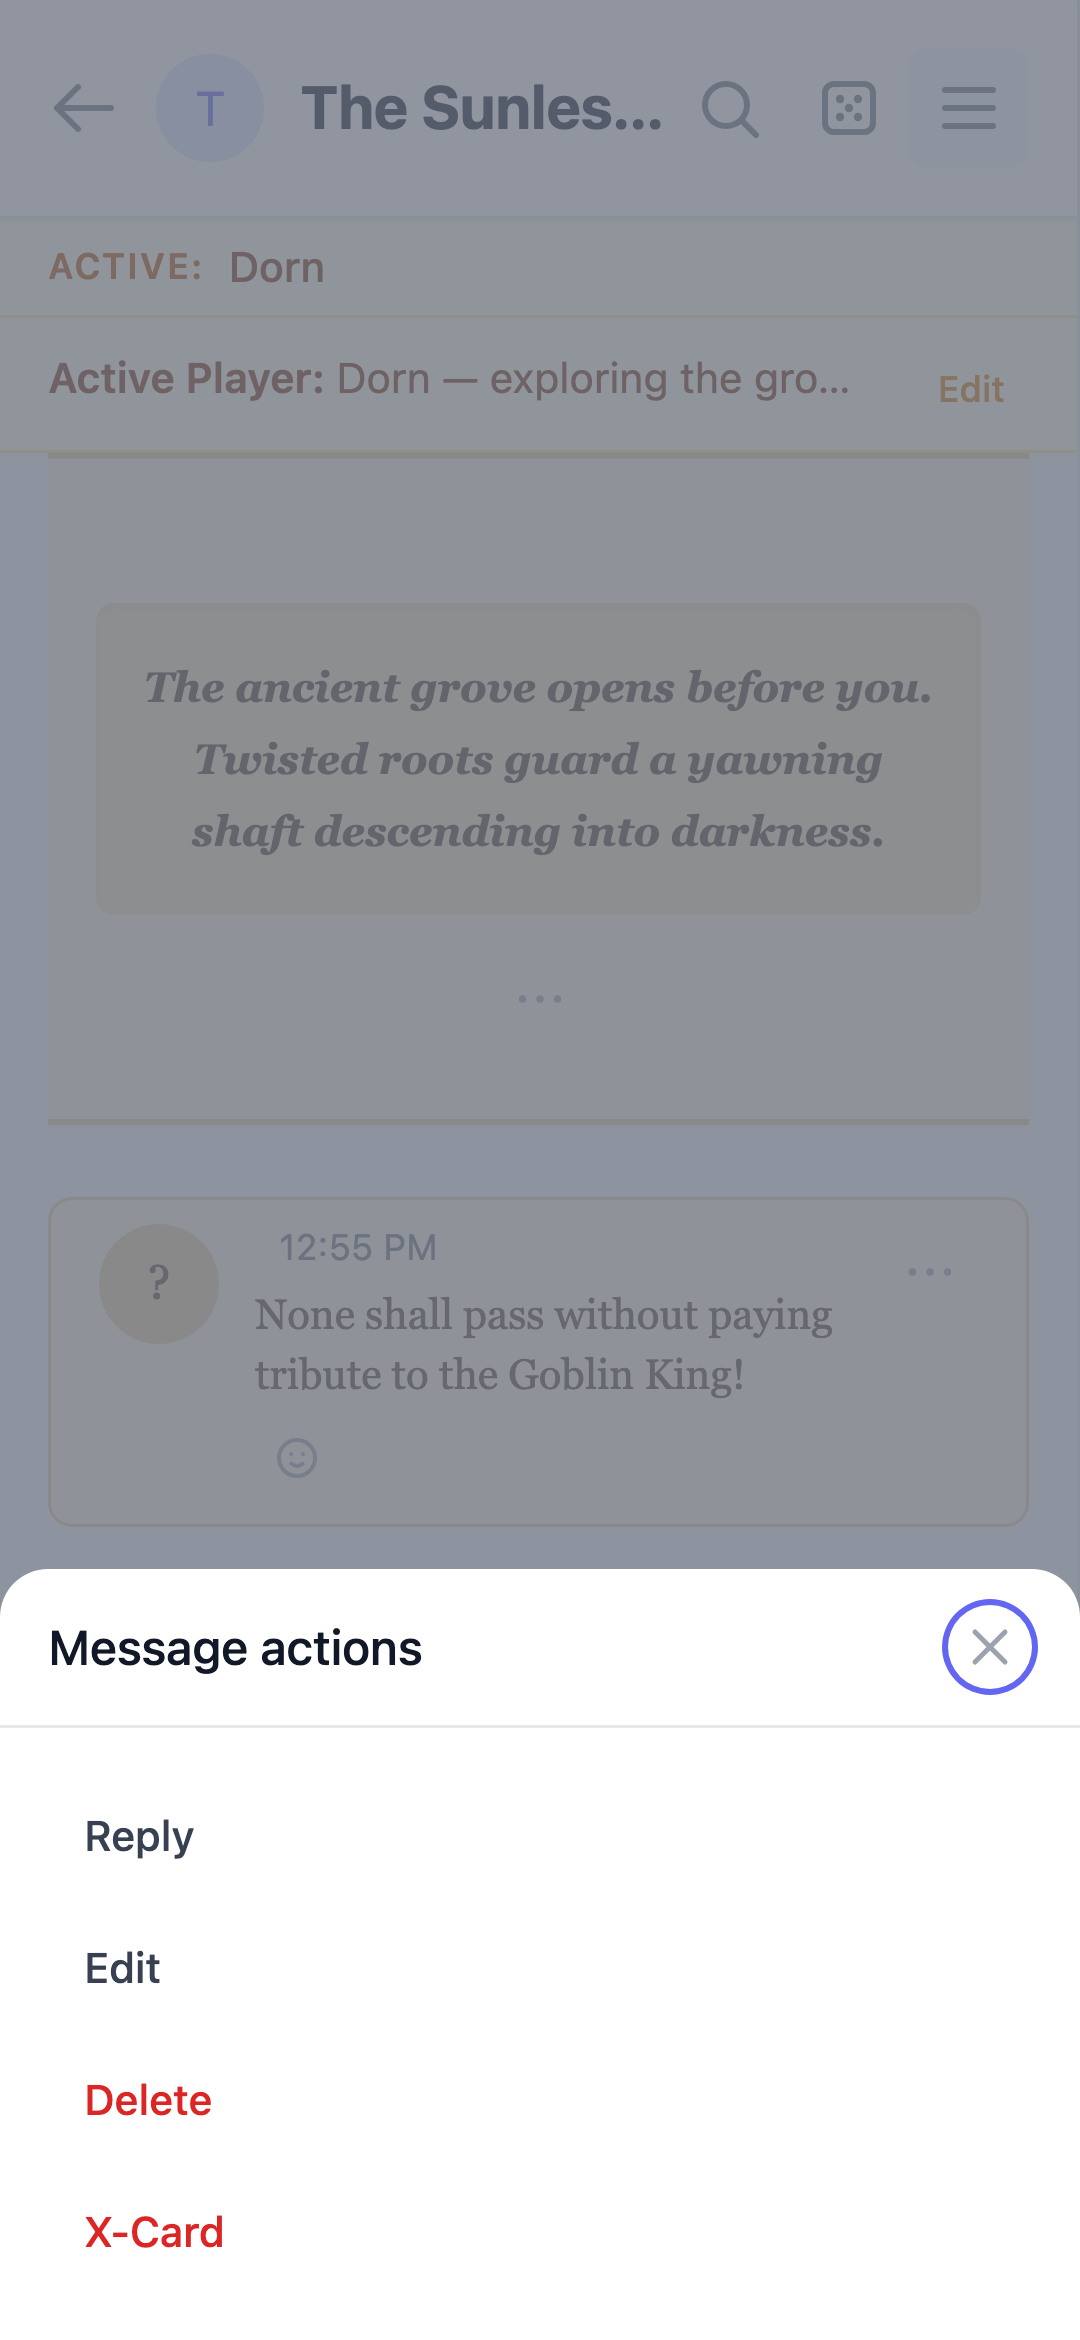
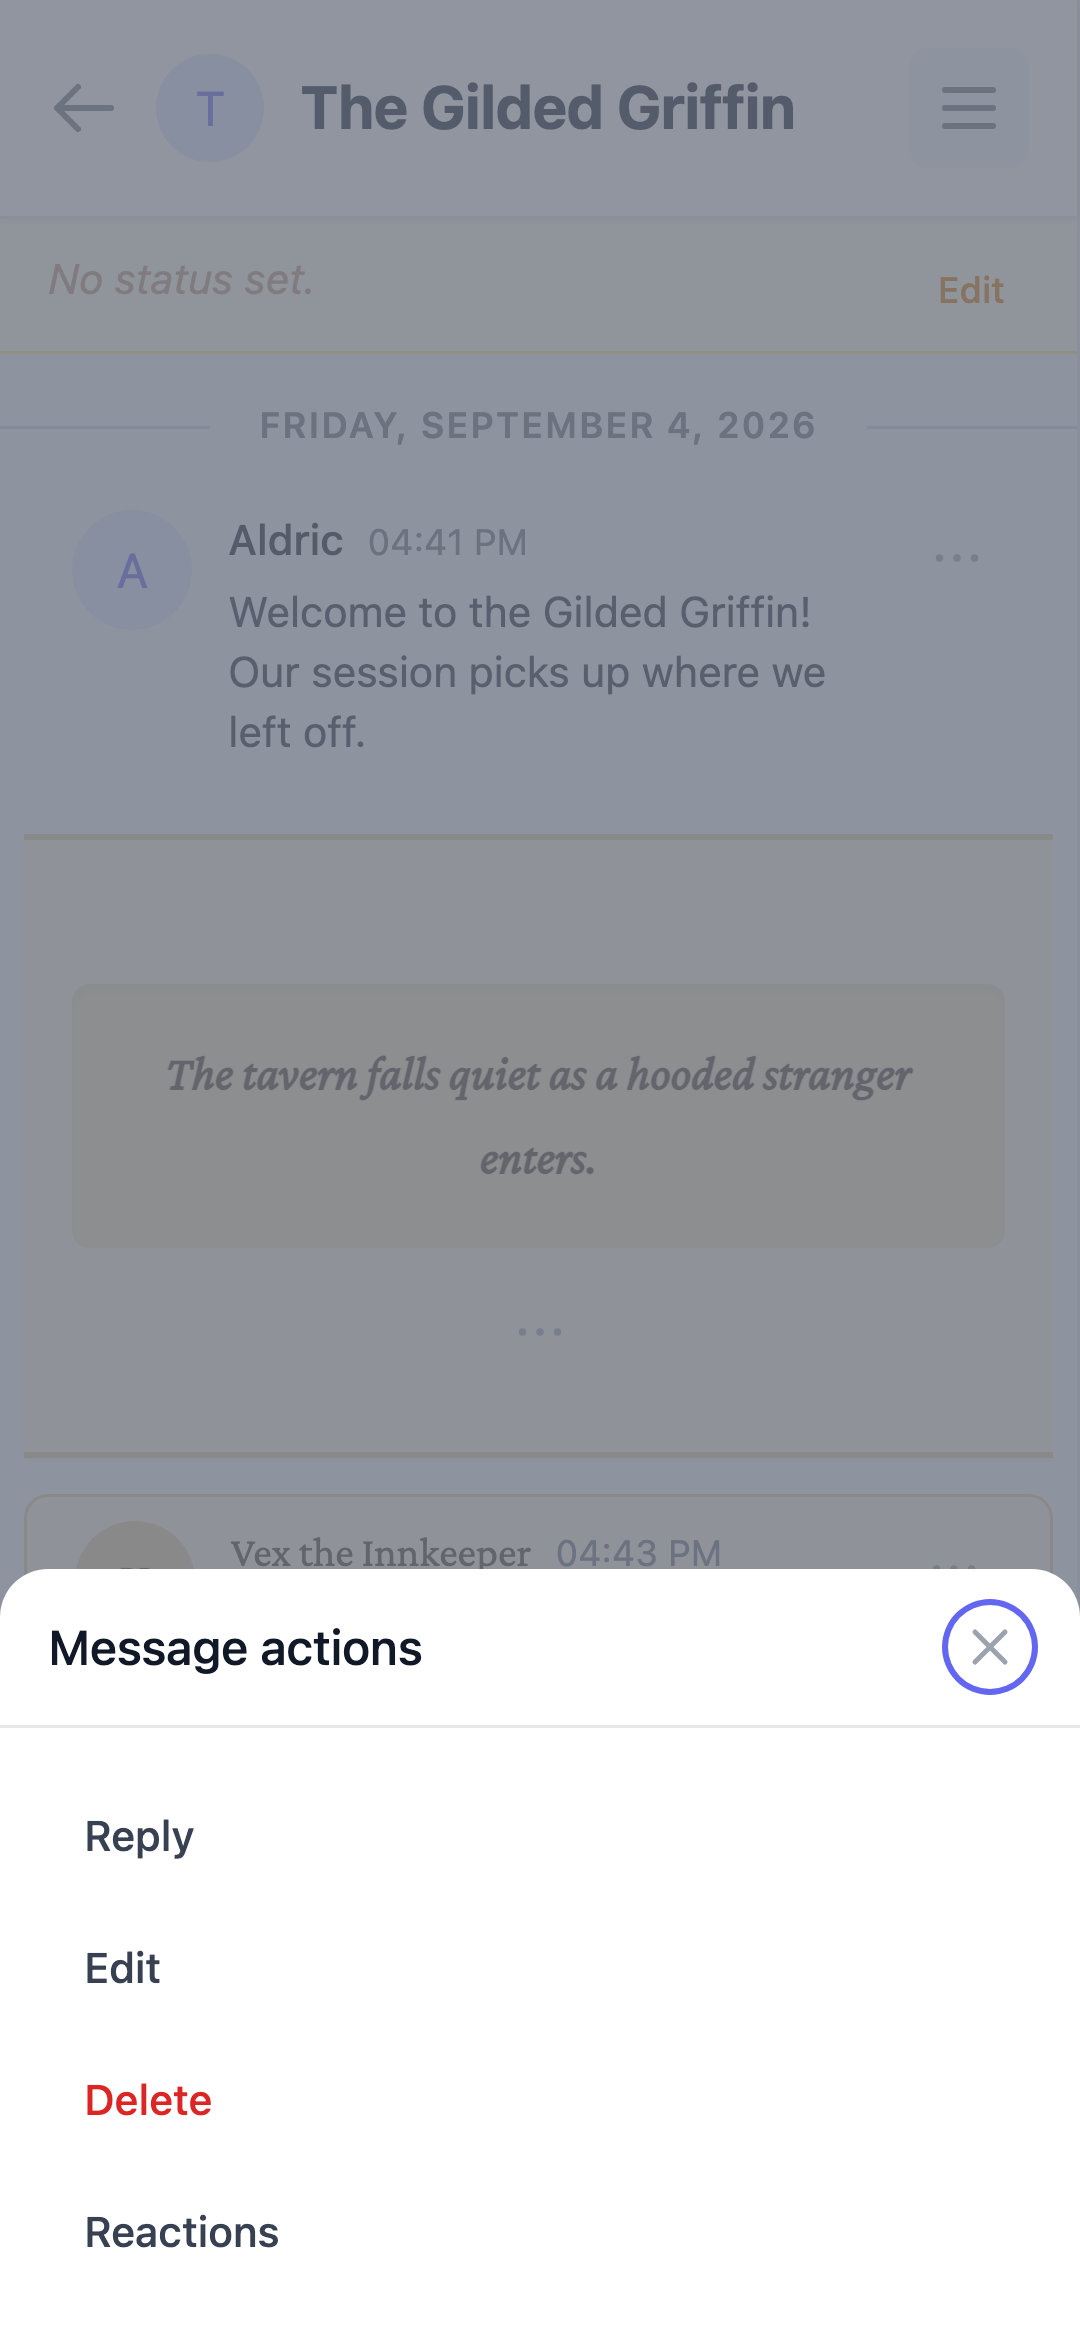
docs: regenerate help screenshots for post-#392/#393 UI
- message-actions.png: per-message X-Card removed, Reactions added (#392)
- safety-tools.png: X-Card now lives in the composer options only (#392)
- lobby-empty.png: search/dark-mode folded into the app menu, Profile
  label (#393/#395)
- new lobby-with-channels.png illustrating the recent-message preview
  in the channel list (#391), embedded inline in lobby.md

Captured at 360x780 CSS @3x (1080px wide) in light mode against a
local dev session. Closes #394

diff --git a/docs/help/general/lobby.md b/docs/help/general/lobby.md
@@ -5,6 +5,8 @@ screenshot: /help/lobby-empty.png
 
 The **lobby** is the first screen after signing in. It lists the private channels you've joined. Each channel shows its **most recent message** (or *No messages yet*), a short timestamp, and a **GM** or **Player** badge, plus an unread count when there's something new to read.
 
+![The lobby with joined channels, each showing its most recent message](/help/lobby-with-channels.png)
+
 ## Creating a channel
 
 Tap **Create a channel** (+) to start your own game. You'll be the Game Master. There's a limit to how many active channels each player can have — when you reach it, the create button explains why.
